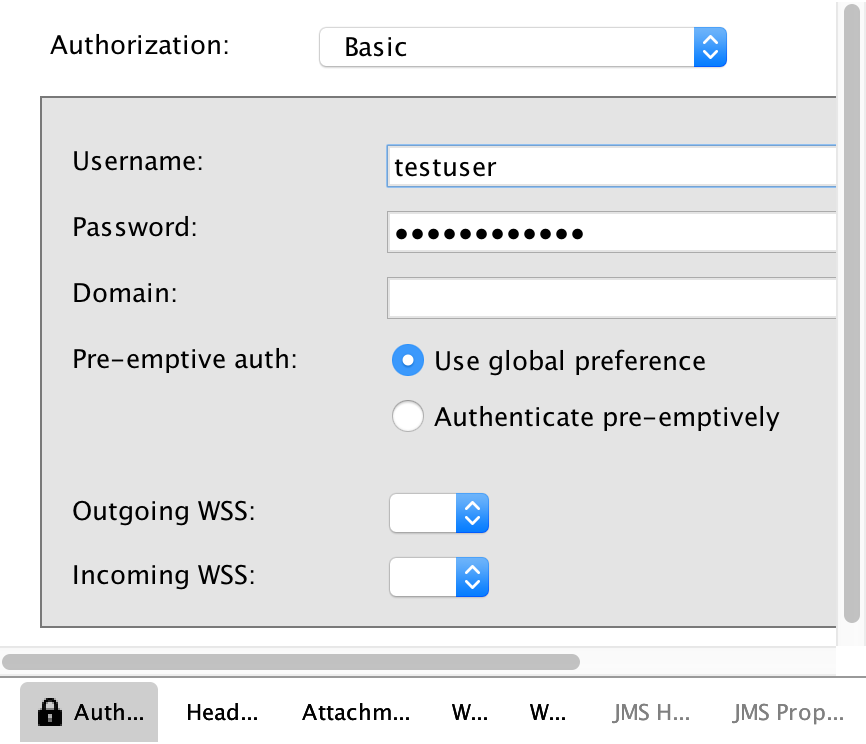
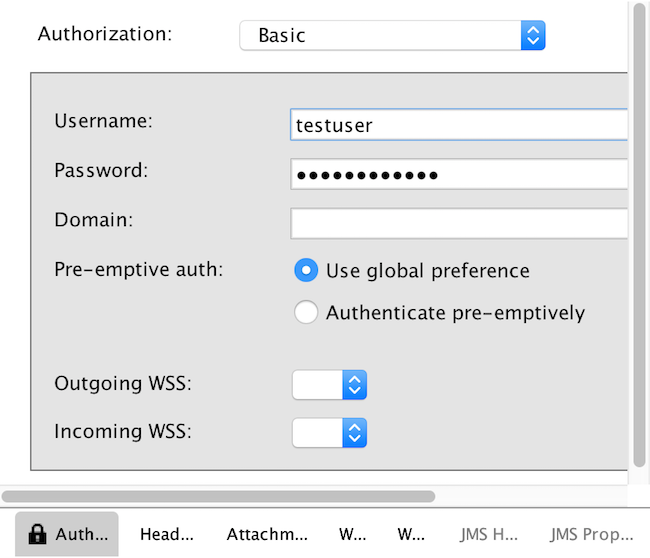
update SoapUI documentation after proofread and shrink some of the images

diff --git a/SoapUI/README.md b/SoapUI/README.md
@@ -1,6 +1,6 @@
 # Using SoapUI with Barking's Web Service
 
-SoapUI is an application built to help testing of SOAP and REST interfaces. It a great way to independently test that you can connect to the Barking Web Service interface from your network.
+SoapUI is an application built to help testing of SOAP and REST interfaces. It is a great way to independently test that you can connect to the Barking Web Service interface from your network.
 
 The free open source edition can be downloaded here:
 https://www.soapui.org/downloads/soapui.html
@@ -17,7 +17,7 @@ Open the WSDL file and check that the "wsdlsoap:address location" towards the en
 
 
 ## Create SOAP Project
-Once installed you will need to create a SOAP Project.
+Once SoapUI is installed, you will need to create a SOAP Project.
 
 ![New SOAP Project](images/new-soap-project.png)
 
@@ -34,7 +34,7 @@ Once installed you will need to create a SOAP Project.
 ## Preparing a Test Request
 
 To validate that you can successfully call the Barking Web Service interface, test with the exportStatusUpdates operation.
-Expand the exportStatusUpdates node and open the automatically generated "Request 1".
+Expand the exportStatusUpdates node and open the automatically generated `Request 1`.
 
 ![Request 1](images/exportStatusUpdates-Request1.png)
 
@@ -68,13 +68,14 @@ Enter your username and password into the fields provided. Leave other fields as
 
 ![Basic Authorization](images/basic-authorization.png)
 
-There is no save or ok on this tab so just click back on the Request 1 XML.
+There is no Save or OK button on this tab so just click back on the `Request 1` XML.
 
 
 ## Send the Test Request and Check the Response
 
 You are now ready to make the request. Hit the ![Play](images/green-play-button.png) green play button in the top left of the dialog. 
-If the request was successful and you have no job statuses to export in the last hour, then the response that should appear with a success value of "true".
+If the request was successful, then the response should contain `success` value of "true".
+Your response may contain additional data from the one below, if the system you are connecting to, has status updates from the last hour.
 
 ```
 <soapenv:Envelope xmlns:ns1="https://test.retriever.com.au/barking" xmlns:soapenv="http://schemas.xmlsoap.org/soap/envelope/" xmlns:xsd="http://www.w3.org/2001/XMLSchema" xmlns:xsi="http://www.w3.org/2001/XMLSchema-instance">
